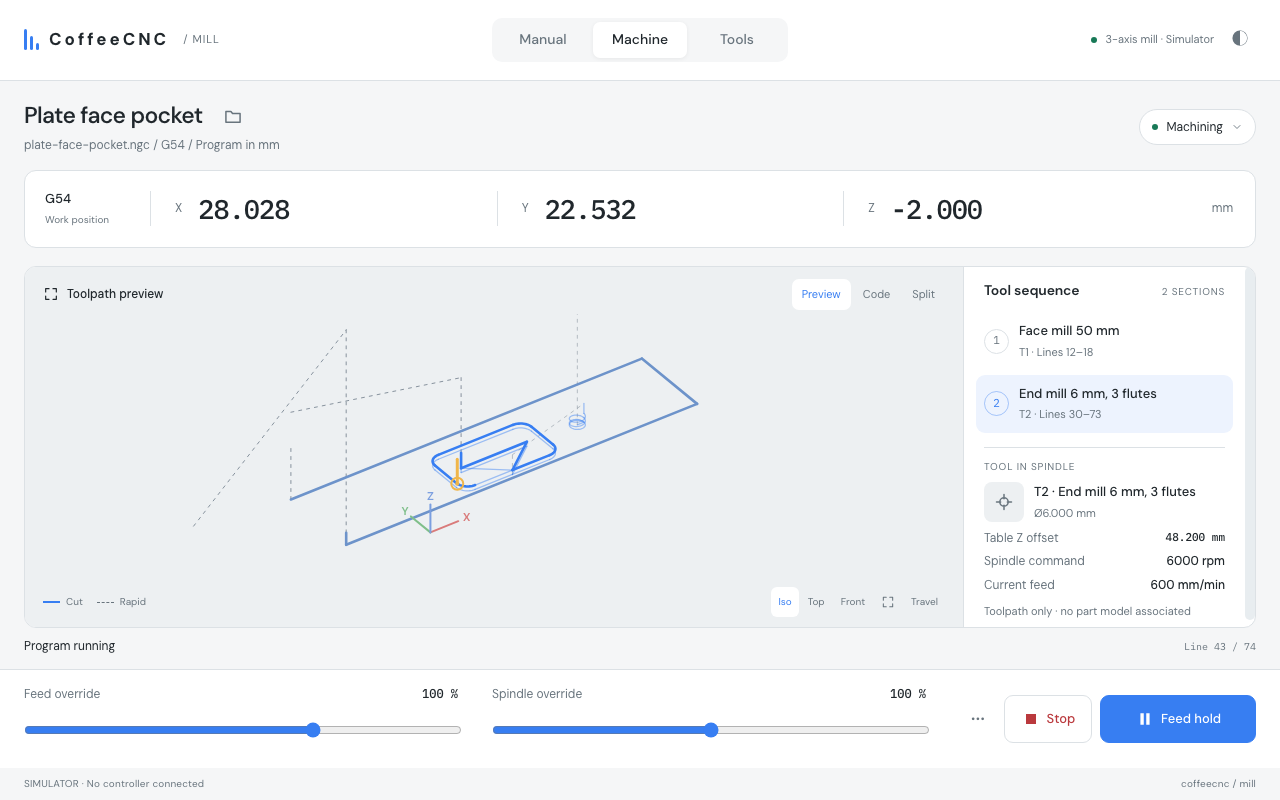
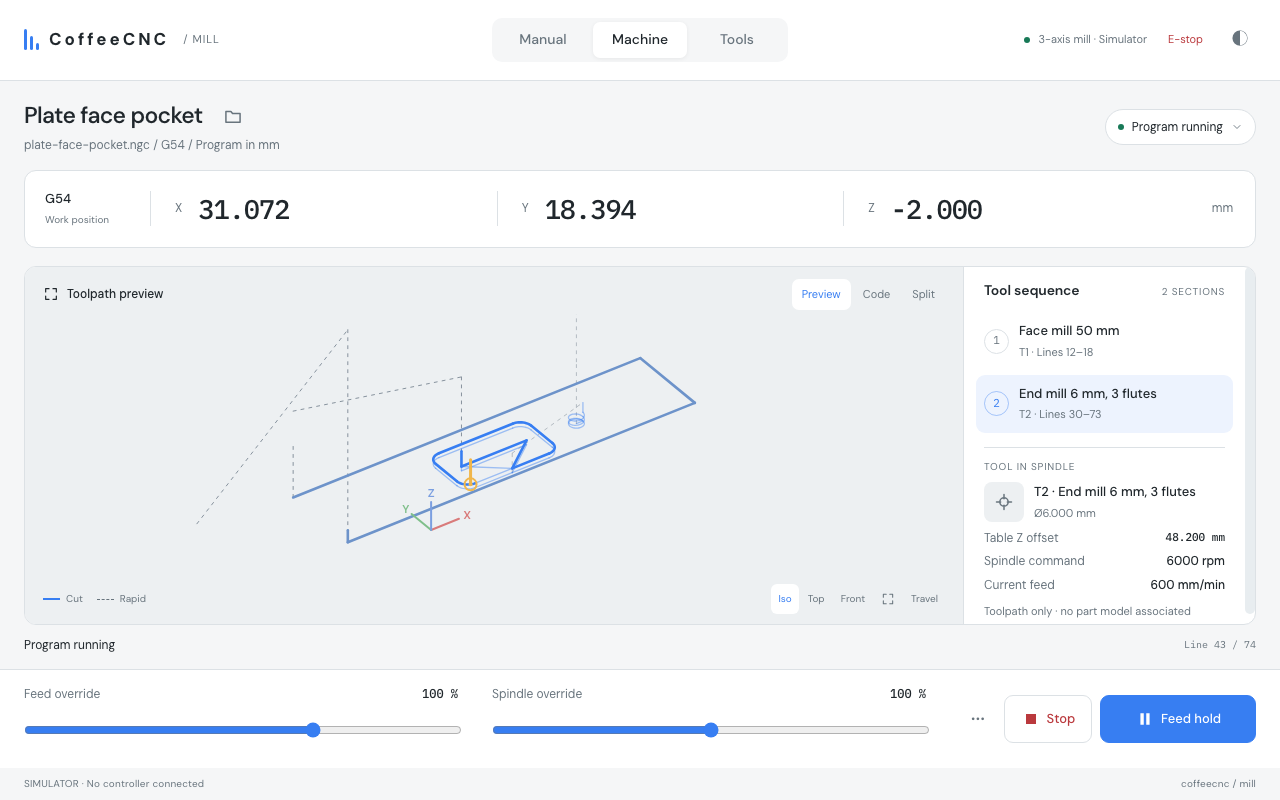
Refine operator status and refresh current UI screenshots

diff --git a/ui/src/components/StatusBar.vue b/ui/src/components/StatusBar.vue
@@ -25,7 +25,7 @@ const state = computed(() => {
   if (s?.machine === 'off') return { label: 'Machine off', tone: 'warn' }
   if (s?.wait.kind === 'tool_change') return { label: 'Tool change required', tone: 'warn' }
   if (s?.interp === 'paused') return { label: 'Paused', tone: 'warn' }
-  if (s?.interp !== 'idle') return { label: s?.mode === 'mdi' ? 'Executing MDI' : 'Machining', tone: 'go' }
+  if (s?.interp !== 'idle') return { label: s?.mode === 'mdi' ? 'Executing MDI' : 'Program running', tone: 'go' }
   return { label: 'Machine idle', tone: 'go' }
 })
 const title = computed(() => {
@@ -50,7 +50,11 @@ const subtitle = computed(() => {
     <nav class="em-nav" aria-label="Workspace">
       <button v-for="[tab, label] in tabs" :key="tab" type="button" :aria-current="panel.tab === tab ? 'page' : undefined" @click="panel.tab = tab">{{ label }}</button>
     </nav>
-    <div class="machine"><span class="connection" :class="{ disconnected: !live }"><i class="dot"></i>{{ linkLabel }}</span><button class="theme" type="button" :aria-label="`Switch to ${theme === 'light' ? 'dark' : 'light'} theme`" @click="toggleTheme">◐</button></div>
+    <div class="machine">
+      <span class="connection" :class="{ disconnected: !live }" :title="linkLabel"><i class="dot"></i><span class="connection-label">{{ linkLabel }}</span></span>
+      <button class="estop" type="button" title="Assert LinuxCNC software E-stop" @click="send({ type: 'set_machine', state: 'estop' })">E-stop</button>
+      <button class="theme" type="button" :aria-label="`Switch to ${theme === 'light' ? 'dark' : 'light'} theme`" @click="toggleTheme">◐</button>
+    </div>
   </header>
   <section class="jobbar">
     <div class="job">
@@ -71,7 +75,6 @@ const subtitle = computed(() => {
           <button v-if="status?.machine === 'estop'" class="btn" type="button" @click="send({ type: 'set_machine', state: 'off' })">Reset E-stop</button>
           <button v-else-if="status?.machine === 'off'" class="btn" type="button" :disabled="!live" @click="send({ type: 'set_machine', state: 'on' })">Machine on</button>
           <button v-else class="btn" type="button" @click="send({ type: 'set_machine', state: 'off' })">Machine off</button>
-          <button class="btn danger" type="button" title="Assert LinuxCNC software E-stop" @click="send({ type: 'set_machine', state: 'estop' })">E-stop</button>
           <button class="btn quiet" type="button" @click="emit('log')">Message log · {{ panel.log.length }}</button>
         </div>
       </div>
@@ -94,6 +97,7 @@ const subtitle = computed(() => {
 .dot { display: inline-block; width: 6px; height: 6px; border-radius: 50%; background: var(--go); flex: none; }
 .disconnected { color: var(--stop); }.disconnected .dot { background: var(--stop); }
 .theme { width: 32px; height: 36px; background: none; border: 0; color: var(--text-dim); font-size: 18px; cursor: pointer; }
+.estop { min-height: 44px; padding: 0 10px; background: none; border: 1px solid transparent; border-radius: 7px; color: var(--stop); font-size: 11px; cursor: pointer; }.estop:hover { border-color: var(--stop); background: var(--stop-soft); }
 .jobbar { display: flex; justify-content: space-between; align-items: center; padding: 19px 24px 16px; gap: 20px; }
 .job { min-width: 0; }.title-row { display: flex; gap: 12px; align-items: center; }
 h1 { margin: 0; font-size: 23px; line-height: 1.2; letter-spacing: -.7px; font-weight: 550; }
@@ -108,4 +112,5 @@ h1 { margin: 0; font-size: 23px; line-height: 1.2; letter-spacing: -.7px; font-w
 .modal-codes { max-width: 180px; font-size: 10px; text-align: right; }
 .error { color: var(--stop); font-size: 12px; margin: 6px 0 0; max-width: 70vw; }
 @media (max-height: 760px) { .em-top { padding-block: 12px; }.jobbar { padding-block: 12px; } }
+@media (max-width: 1100px) { .connection-label { display: none; } }
 </style>

diff --git a/ui/src/components/ManualTab.vue b/ui/src/components/ManualTab.vue
@@ -420,9 +420,8 @@ function coolant(which: 'flood' | 'mist'): void {
           }}</span>
         </button>
       </div>
-      <p class="hint keys">
-        Keyboard: arrow keys jog X and Y, Page Up and Page Down jog Z, while this workspace is shown and no field has
-        the focus.
+      <p class="hint keys" title="Keyboard jogging is active only in Manual with no input field focused.">
+        Keyboard: arrows X/Y · Page Up/Down Z
       </p>
     </section>
 
@@ -468,7 +467,7 @@ function coolant(which: 'flood' | 'mist'): void {
         <p v-if="mdiBlock" class="blocked">MDI unavailable: {{ mdiBlock }}</p>
       </section>
 
-      <section class="card">
+      <section class="card utilities">
         <h2>Spindle and coolant</h2>
         <div class="line">
           <input
@@ -543,10 +542,12 @@ function coolant(which: 'flood' | 'mist'): void {
 
 .side > .card {
   flex-shrink: 0;
+  padding: 10px 12px;
+  gap: 8px;
 }
 
 .jog {
-  gap: 8px;
+  gap: 6px;
   overflow-y: auto;
 }
 
@@ -562,8 +563,8 @@ function coolant(which: 'flood' | 'mist'): void {
     'xneg stop xpos gap .'
     '. yneg . gap zneg';
   grid-template-columns: 68px 68px 68px 12px 68px;
-  grid-template-rows: 48px 48px 48px;
-  gap: 6px;
+  grid-template-rows: 44px 44px 44px;
+  gap: 4px;
 }
 
 .jogbtn {
@@ -721,4 +722,10 @@ function coolant(which: 'flood' | 'mist'): void {
   padding: 0;
   font-size: 13px;
 }
+.utilities { display: grid; grid-template-columns: minmax(0, 1fr) auto; column-gap: 14px; }
+.utilities h2 { grid-column: 1 / -1; }
+.utilities .line { gap: 6px; }
+.utilities .line .btn { padding: 0 10px; font-size: 12px; }
+.utilities .line > .label { width: auto; }
+@media (max-width: 1150px) { .utilities { grid-template-columns: 1fr; } }
 </style>

diff --git a/ui/src/components/ProgramTab.vue b/ui/src/components/ProgramTab.vue
@@ -103,7 +103,7 @@ async function showFailure(): Promise<void> {
 .tool { border-top: 1px solid var(--line); padding-top: 16px; margin-top: auto; }.tool-title { display: flex; align-items: center; gap: 10px; margin: 12px 0 16px; }.tool-title strong { font-size: 13px; font-weight: 500; }.tool-title small { display: block; margin-top: 4px; color: var(--text-dim); font-size: 11px; }.tool-glyph { display: flex; padding: 10px; background: var(--bg-sunken); border-radius: 8px; color: var(--text-dim); }
 .kv { display: flex; justify-content: space-between; gap: 8px; margin: 10px 0; font-size: 12px; color: var(--text-dim); }.kv strong { color: var(--text); font-weight: 500; }.kv .mono { font-size: 11px; }
 .context-note, .quiet { margin: 15px 0 0; font-size: 11px; color: var(--text-dim); }
-.status-row { display: flex; align-items: center; justify-content: space-between; gap: 12px; font-size: 12px; }.status-row .mono { font-size: 10px; color: var(--text-dim); }.warning { color: var(--stop); }
+.status-row { flex: none; min-height: 20px; display: flex; align-items: center; justify-content: space-between; gap: 12px; font-size: 12px; }.status-row .mono { font-size: 10px; color: var(--text-dim); }.warning { color: var(--stop); }
 .failure { display: flex; align-items: center; gap: 8px; padding: 8px 18px; color: var(--stop); font-size: 12px; }.failure button { border: 0; background: none; color: inherit; text-decoration: underline; cursor: pointer; flex: none; }.failure span { flex: 1; }
 @media (max-height: 850px) { .program { gap: 10px; }.inspector { padding: 14px 20px; }.section { min-height: 50px; }.tool-title { margin-block: 8px; }.kv { margin-block: 7px; }.context-note { margin-top: 10px; }.tool { padding-top: 12px; } }
 </style>

diff --git a/ui/src/machine.ts b/ui/src/machine.ts
@@ -1,7 +1,7 @@
 // The one panel store of the running page, connected to the executable or the simulator, plus
 // the readings of its state that several components share.
 
-import { computed, type ComputedRef } from 'vue'
+import { computed, watch, type ComputedRef } from 'vue'
 
 import { createTransport } from './bridge'
 import type { AxisStatus, CommandBody, Status, Tool } from './protocol'
@@ -30,6 +30,12 @@ export function start(): void {
   const tab = tabs.find((candidate) => candidate === parameters.get('tab'))
   if (tab !== undefined) {
     panel.tab = tab
+  } else {
+    // Choose once from the first controller snapshot; never move the operator's workspace
+    // when later status updates arrive. An explicit URL workspace always wins.
+    watch(() => panel.status, (status) => {
+      if (status?.program.file) panel.tab = 'program'
+    }, { once: true })
   }
   const layout = (['split', 'text', 'path'] as const).find((candidate) => candidate === parameters.get('layout'))
   if (layout !== undefined) {

diff --git a/ui/src/App.vue b/ui/src/App.vue
@@ -25,7 +25,7 @@ const toolChange = computed(() => panel.status?.wait.kind === 'tool_change' ? pa
       <ManualTab v-if="panel.tab === 'manual'" />
       <ProgramTab v-else-if="panel.tab === 'program'" />
       <ToolsTab v-else />
-      <ToolChangePrompt v-if="toolChange !== null" :tool="toolChange" />
+      <ToolChangePrompt v-if="toolChange !== null" :tool="toolChange" :class="{ 'with-status-row': panel.tab === 'program' }" />
       <div id="dialogs"></div>
       <LogDialog v-if="logOpen" @close="logOpen = false" />
       <FileBrowser v-if="browsing" @close="browsing = false" />

diff --git a/ui/src/components/ToolChangePrompt.vue b/ui/src/components/ToolChangePrompt.vue
@@ -76,11 +76,20 @@ const spindle = computed(() => panel.status?.spindle.direction ?? 'stopped')
   flex-direction: column;
   gap: 10px;
   width: 560px;
+  max-height: 100%;
+  overflow-y: auto;
   padding: 24px 28px;
   border: 2px solid var(--warn);
   border-radius: 12px;
   background: var(--panel-raised);
   box-shadow: 0 18px 50px rgb(0 0 0 / 50%);
+}
+
+.scrim.with-status-row { bottom: 34px; }
+@media (max-height: 850px) {
+  .scrim.with-status-row { bottom: 30px; }
+  .prompt { padding: 16px 24px; gap: 8px; }
+  .prompt h2 { font-size: 30px; }
 }
 
 .label {

diff --git a/docs/design/implementation-alignment.md b/docs/design/implementation-alignment.md
@@ -4,7 +4,7 @@ The user's review of the first running panel on 14 November 2026 was: “this lo
 
 The design reference is [the original CoffeeCNC concept](../concepts/coffeecnc-mill.html), with reusable styles and structure in [its fragment](../concepts/coffeecnc-mill.fragment.html). The [workflow review](concept-review.md) still governs truthful data and practical behavior. Both requirements apply together.
 
-Ownership changed after the user's follow-up: Codex owns the UI correction in PR #1, implementing the original concept directly. Claude owns the C++ backend and reviews machine behavior. Hold the UI merge until the revised screens have been visually reviewed. Functional tests alone cannot establish design fidelity.
+Ownership changed after the user's follow-up: Codex owns UI design and components, implementing the original concept directly. Claude owns the C++ backend and reviews machine behavior. The user subsequently requested merging the current work; the restored panel landed through PR #1. Continue reviewing each increment against the visual reference. Functional tests alone cannot establish design fidelity.
 
 ## What drifted
 
@@ -36,7 +36,7 @@ The concept's illustrative stock, named operations, measured-tool badges and est
 
 Keep actual controller state, stale-link handling, manual tool-change waits, coordinate transforms, jog releases, single block and state-dependent command validation. A scene selection changes inspection context, not machine mode or coordinates. Jog/MDI remain available through the Manual workspace. Persistent stop/hold and software E-stop must remain easy to locate.
 
-## Review before merging
+## Review each UI increment
 
 1. Compare a revised Program screen directly with the concept at the same desktop width, in light and dark themes. Review composition first, then type, spacing, surfaces and controls.
 2. Check Manual and Tools for a consistent visual design and usable touch targets.
